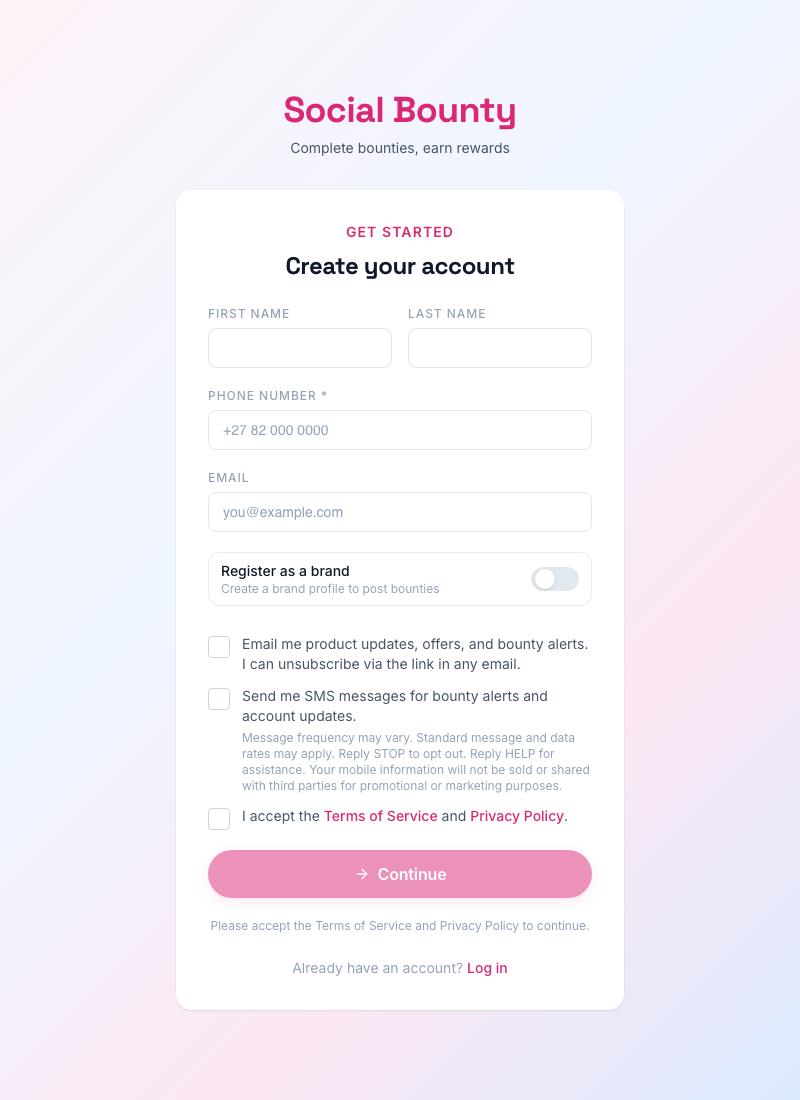
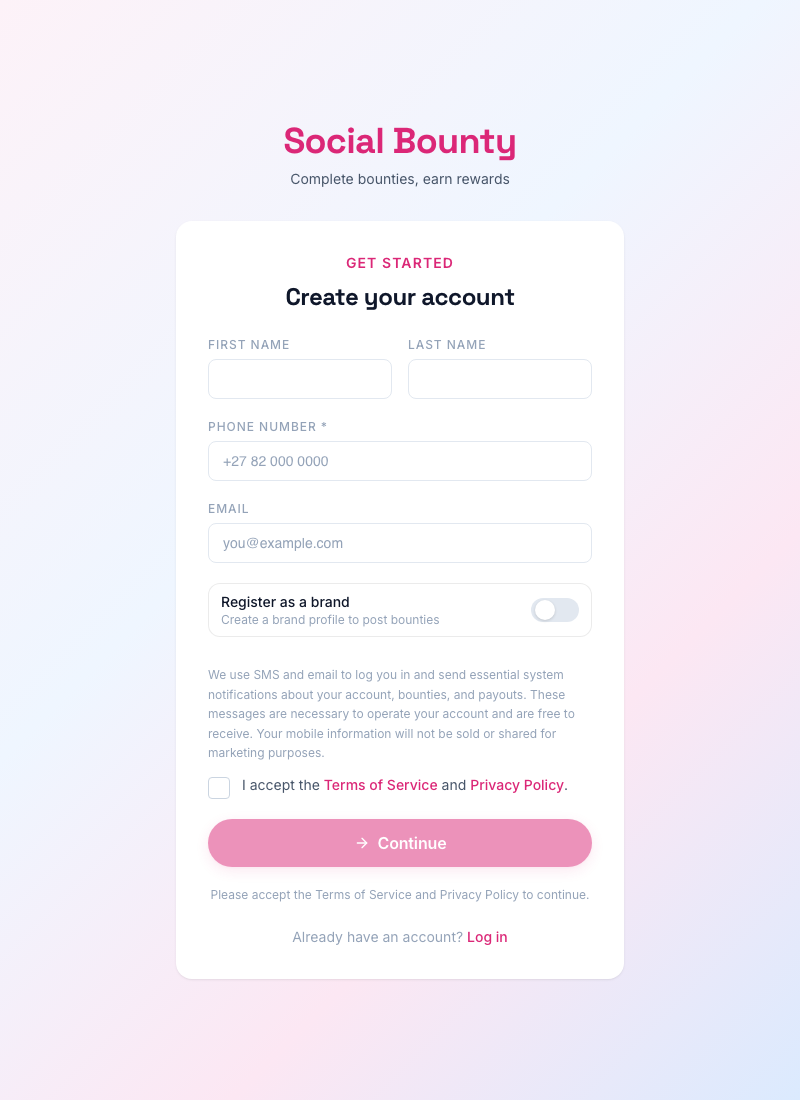
feat(web): replace marketing checkboxes with service-comms notice
The new signup form posture reflects the post-2026-04-25 legal
repositioning: SMS + email are service communications, not direct
marketing, so we no longer collect per-channel opt-in consent.

Signup form (apps/web/src/app/(auth)/signup/page.tsx):
- Drop Email + SMS marketing checkboxes + their consent state.
- Drop MARKETING_CONSENT_LABELS shared import.
- Add a single notice paragraph (data-testid="service-comms-notice"):
  "We use SMS and email to log you in and send essential system
  notifications about your account, bounties, and payouts. These
  messages are necessary to operate your account and are free to
  receive. Your mobile information will not be sold or shared for
  marketing purposes."
- Keep the required ToS+Privacy checkbox as the sole consent surface.
- Continue button stays disabled until ToS is ticked.

Privacy Policy:
- Replace the long "Direct marketing communications (POPIA §69)"
  section with "Service communications". The new section explicitly
  states that SMS + email are service-only (verification codes, payout
  confirmations, dispute notices, individualised bounty alerts), names
  Brevo as the operator, says messages are free to receive on standard
  ZA plans, and promises that any optional marketing in future will be
  collected via a separate POPIA §69 consent surface — service
  messages will not be conditional on accepting marketing.
- Update "Email and SMS provider" subsection to match the service-only
  framing.
[…]

Changed region(s): [[0.25, 0.0927, 0.75, 0.8964]]

diff --git a/apps/web/src/app/(marketing)/legal/privacy-policy/page.tsx b/apps/web/src/app/(marketing)/legal/privacy-policy/page.tsx
@@ -13,7 +13,7 @@ const TOC = [
   { id: 'who-we-are', label: 'Who we are' },
   { id: 'what-we-collect', label: 'What we collect' },
   { id: 'how-we-use', label: 'How we use it' },
-  { id: 'direct-marketing', label: 'Direct marketing (POPIA §69)' },
+  { id: 'service-communications', label: 'Service communications' },
   { id: 'who-we-share-with', label: 'Who we share it with' },
   { id: 'cross-border-transfer', label: 'Cross-border transfer' },
   { id: 'retention', label: 'How long we keep it' },
@@ -310,104 +310,63 @@ export default function PrivacyPolicyPage() {
           >
             Cookie Policy
           </Link>
-          ) and optional marketing communications by email and SMS — see{' '}
-          <a href="#direct-marketing" className="text-pink-600 hover:text-pink-700 font-medium">
-            Direct marketing (POPIA §69)
+          ). We do not currently send optional marketing communications — see{' '}
+          <a
+            href="#service-communications"
+            className="text-pink-600 hover:text-pink-700 font-medium"
+          >
+            Service communications
           </a>{' '}
-          below. You can withdraw consent at any time without affecting the lawfulness of what we
-          did before.
+          below for what we do send. You can withdraw consent at any time without affecting the
+          lawfulness of what we did before.
         </p>
       </section>
 
-      <section id="direct-marketing">
+      <section id="service-communications">
         <h2 className="text-2xl font-heading font-semibold text-slate-900 mb-4">
-          Direct marketing communications (POPIA §69)
+          Service communications
         </h2>
         <p className="mb-4">
-          Direct marketing — sending you commercial messages to promote our service or third-party
-          offers — is governed by section 69 of POPIA. The rule is simple: we may only send direct
-          marketing by electronic communication if you have given specific, voluntary consent or if
-          you are an existing customer receiving messages about similar services. We do not buy
-          marketing lists, we do not pretext, and we do not opt you in by default.
+          We use SMS and email to log you in and send essential system notifications about your
+          account, bounties, and payouts. These messages are necessary to operate your account —
+          examples include verification codes, payout confirmations, dispute notices, submission
+          status updates, and individualised bounty alerts about work you have applied for or
+          submitted. They are not direct marketing under section 69 of POPIA, and we do not
+          collect a separate marketing-consent box for them at signup.
         </p>
-
-        <h3 className="text-lg font-heading font-semibold text-slate-900 mt-6 mb-3">
-          Channels we use
-        </h3>
         <p className="mb-4">
-          At signup you choose which marketing channels we may use. Each is independent — ticking
-          SMS does not enrol you in email, and vice versa. Today we send marketing by:
-        </p>
-        <ul className="list-disc pl-6 mb-4 space-y-2">
-          <li>
-            <strong>Email</strong> — product updates, bounty alerts, and offers.
-          </li>
-          <li>
-            <strong>SMS</strong> — short text alerts to your registered mobile number.
-          </li>
-        </ul>
-        <p className="mb-4">
-          We do not currently send marketing by WhatsApp, instant messaging, or voice call. If we
-          add a new channel, we will ask you again — your existing consents do not roll over to
-          channels you did not opt into.
-        </p>
-
-        <h3 className="text-lg font-heading font-semibold text-slate-900 mt-6 mb-3">
-          Who sends the messages
-        </h3>
-        <p className="mb-4">
-          Our email and SMS are dispatched through{' '}
+          Both rails are dispatched through{' '}
           <strong className="font-semibold text-slate-900">Brevo (Sendinblue SAS)</strong>, a French
-          operator under POPIA sections 20 and 21. Brevo receives the minimum data needed to deliver
-          each message: your name, the email address or mobile number, and the message body. Brevo
-          does not use this data for its own purposes. SMS routed through international toll-free
-          carriers may transit third-party infrastructure to reach your handset.
+          operator under POPIA sections 20 and 21. Brevo receives the minimum data needed to
+          deliver each message: your name, the email address or mobile number, and the message
+          body. Brevo does not use this data for its own purposes.
         </p>
-
-        <h3 className="text-lg font-heading font-semibold text-slate-900 mt-6 mb-3">
-          How to opt out
-        </h3>
-        <ul className="list-disc pl-6 mb-4 space-y-2">
-          <li>
-            <strong>Email</strong> — every marketing email contains an unsubscribe link. Click it
-            and your email-marketing flag is cleared immediately.
-          </li>
-          <li>
-            <strong>SMS</strong> — reply <strong>STOP</strong> to any marketing SMS to be removed,
-            or <strong>HELP</strong> for assistance. Message frequency may vary. Standard message
-            and data rates may apply. Your mobile information will not be sold or shared with third
-            parties for promotional or marketing purposes.
-          </li>
-          <li>
-            <strong>All channels at once</strong> — email{' '}
-            <a
-              href={`mailto:${LEGAL_ENTITY.emails.privacy}`}
-              className="text-pink-600 hover:text-pink-700 font-medium"
-            >
-              {LEGAL_ENTITY.emails.privacy}
-            </a>{' '}
-            and we will withdraw all your marketing consents within seven days. You will continue
-            to receive transactional messages — login codes, payout confirmations, dispute notices
-            — because those are necessary to operate your account and are not direct marketing
-            under section 69.
-          </li>
-        </ul>
-
-        <h3 className="text-lg font-heading font-semibold text-slate-900 mt-6 mb-3">
-          Your record of consent
-        </h3>
         <p className="mb-4">
-          When you tick a marketing checkbox at signup, we record the date, the version of the
-          consent text shown to you, and the IP address from which you ticked it. This is how we
-          prove your consent if you or the Information Regulator ever ask. You can request a copy
-          of your consent record at any time via{' '}
+          <strong className="font-semibold text-slate-900">No charge to receive.</strong> The cost
+          of sending SMS is borne by us; you do not incur a charge for receiving them on a standard
+          South African mobile plan. Roaming or non-standard plans may apply their own rules.
+        </p>
+        <p className="mb-4">
+          <strong className="font-semibold text-slate-900">No marketing without consent.</strong>{' '}
+          We will not use SMS or email to send you optional product offers, third-party
+          promotions, or bulk marketing campaigns unless we first ask for your specific consent
+          under section 69 of POPIA. If we ever introduce that, it will be a separate, voluntary
+          opt-in surface — your service messages will not be conditional on accepting marketing.
+        </p>
+        <p className="mb-4">
+          <strong className="font-semibold text-slate-900">No sale or sharing for marketing.</strong>{' '}
+          Your mobile information will not be sold or shared with third parties for promotional or
+          marketing purposes.
+        </p>
+        <p className="mb-4">
+          If you have any concerns about a message you have received from us, email{' '}
           <a
             href={`mailto:${LEGAL_ENTITY.emails.privacy}`}
             className="text-pink-600 hover:text-pink-700 font-medium"
           >
             {LEGAL_ENTITY.emails.privacy}
           </a>
-          .
+          . You can stop receiving service communications by closing your account.
         </p>
       </section>
 
@@ -457,15 +416,18 @@ export default function PrivacyPolicyPage() {
           Email and SMS provider — Brevo (Sendinblue SAS)
         </h3>
         <p className="mb-4">
-          Brevo (Sendinblue SAS) dispatches both our transactional messages — verification codes,
-          payout confirmations, dispute notifications — and any marketing emails or SMS you have
-          opted into. Brevo receives your name, email address, and (for SMS) mobile number, plus
-          the message body. They act as our operator under POPIA sections 20 and 21 and may not
-          use the data for their own purposes. See{' '}
-          <a href="#direct-marketing" className="text-pink-600 hover:text-pink-700 font-medium">
-            Direct marketing (POPIA §69)
+          Brevo (Sendinblue SAS) dispatches our service communications — verification codes,
+          payout confirmations, dispute notifications, and individualised bounty alerts. Brevo
+          receives your name, email address, and (for SMS) mobile number, plus the message body.
+          They act as our operator under POPIA sections 20 and 21 and may not use the data for
+          their own purposes. See{' '}
+          <a
+            href="#service-communications"
+            className="text-pink-600 hover:text-pink-700 font-medium"
+          >
+            Service communications
           </a>{' '}
-          for the specifics on when each channel is used and how to opt out.
+          for the full description of what these channels are used for.
         </p>
 
         <h3 className="text-lg font-heading font-semibold text-slate-900 mt-6 mb-3">

diff --git a/apps/web/src/app/(auth)/signup/page.tsx b/apps/web/src/app/(auth)/signup/page.tsx
@@ -7,7 +7,6 @@ import { InputSwitch } from 'primereact/inputswitch';
 import { Checkbox } from 'primereact/checkbox';
 import { AlertCircle, ArrowRight, Loader2, Phone, UserPlus } from 'lucide-react';
 import { isValidPhoneNumber } from 'libphonenumber-js';
-import { MARKETING_CONSENT_LABELS } from '@social-bounty/shared';
 import { useAuth } from '@/hooks/useAuth';
 import { authApi } from '@/lib/api/auth';
 import { ApiError } from '@/lib/api/client';
@@ -22,8 +21,6 @@ export default function SignupPage() {
     registerAsBrand: false,
     brandName: '',
     brandContactEmail: '',
-    consentEmail: false,
-    consentSms: false,
     termsAccepted: false,
   });
   const [otp, setOtp] = useState('');
@@ -98,10 +95,6 @@ export default function SignupPage() {
         firstName: form.firstName,
         lastName: form.lastName,
         contactNumber: form.contactNumber.trim(),
-        marketingConsent: {
-          email: form.consentEmail,
-          sms: form.consentSms,
-        },
         termsAccepted: true,
         ...(form.registerAsBrand
           ? {
@@ -301,42 +294,18 @@ export default function SignupPage() {
             </div>
           )}
 
-          {/* Communications opt-in (POPIA §69 + Brevo carrier requirement). */}
+          {/* Service-communications notice + ToS acceptance. */}
           <div className="space-y-3 pt-2">
-            <label
-              htmlFor="consentEmail"
-              className="flex items-start gap-3 cursor-pointer text-sm text-text-secondary normal-case tracking-normal font-normal"
+            <p
+              data-testid="service-comms-notice"
+              className="text-xs text-text-muted leading-relaxed"
             >
-              <Checkbox
-                inputId="consentEmail"
-                checked={form.consentEmail}
-                onChange={(e) =>
-                  setForm((prev) => ({ ...prev, consentEmail: !!e.checked }))
-                }
-                className="mt-0.5 flex-none"
-              />
-              <span>{MARKETING_CONSENT_LABELS.EMAIL.label}</span>
-            </label>
-
-            <label
-              htmlFor="consentSms"
-              className="flex items-start gap-3 cursor-pointer text-sm text-text-secondary normal-case tracking-normal font-normal"
-            >
-              <Checkbox
-                inputId="consentSms"
-                checked={form.consentSms}
-                onChange={(e) =>
-                  setForm((prev) => ({ ...prev, consentSms: !!e.checked }))
-                }
-                className="mt-0.5 flex-none"
-              />
-              <span>
-                {MARKETING_CONSENT_LABELS.SMS.label}
-                <span className="block mt-1 text-xs text-text-muted">
-                  {MARKETING_CONSENT_LABELS.SMS.disclosure}
-                </span>
-              </span>
-            </label>
+              We use SMS and email to log you in and send essential system
+              notifications about your account, bounties, and payouts. These
+              messages are necessary to operate your account and are free to
+              receive. Your mobile information will not be sold or shared for
+              marketing purposes.
+            </p>
 
             <label
               htmlFor="termsAccepted"

diff --git a/apps/web/e2e/auth.spec.ts b/apps/web/e2e/auth.spec.ts
@@ -96,35 +96,26 @@ test.describe('Auth — signup page', () => {
     await expect(page.locator('input[type="email"], #email')).toBeVisible();
   });
 
-  test('renders Email + SMS + Terms checkboxes, all unchecked by default', async ({ page }) => {
+  test('renders ToS checkbox unchecked by default + no marketing checkboxes', async ({ page }) => {
     await page.goto('/signup');
 
-    const emailBox = page.locator('input#consentEmail');
-    const smsBox = page.locator('input#consentSms');
+    // Only one consent checkbox: Terms of Service / Privacy Policy.
     const termsBox = page.locator('input#termsAccepted');
-
-    await expect(emailBox).toBeVisible();
-    await expect(smsBox).toBeVisible();
     await expect(termsBox).toBeVisible();
-
-    expect(await emailBox.isChecked()).toBe(false);
-    expect(await smsBox.isChecked()).toBe(false);
     expect(await termsBox.isChecked()).toBe(false);
+
+    // Marketing-consent boxes from the previous design must not exist.
+    await expect(page.locator('input#consentEmail')).toHaveCount(0);
+    await expect(page.locator('input#consentSms')).toHaveCount(0);
   });
 
-  test('SMS opt-in shows the carrier-mandated disclosure text', async ({ page }) => {
+  test('shows service-communications notice with no-sale-no-share statement', async ({ page }) => {
     await page.goto('/signup');
 
-    // Brevo / toll-free carrier require this exact disclosure to be visible
-    // alongside the SMS opt-in checkbox.
-    await expect(
-      page.getByText(/Reply STOP to opt out/, { exact: false })
-    ).toBeVisible();
-    await expect(
-      page.getByText(/will not be sold or shared with third parties/, {
-        exact: false,
-      })
-    ).toBeVisible();
+    const notice = page.locator('[data-testid="service-comms-notice"]');
+    await expect(notice).toBeVisible();
+    await expect(notice).toContainText(/log you in and send essential system notifications/i);
+    await expect(notice).toContainText(/will not be sold or shared for marketing purposes/i);
   });
 
   test('Continue button stays disabled until ToS box is ticked', async ({ page }) => {

diff --git a/scripts/capture-brevo-evidence.js b/scripts/capture-brevo-evidence.js
@@ -1,6 +1,11 @@
-// One-off: capture the signup form with all three checkboxes unchecked + the
-// SMS carrier disclosure visible. Output is committed to docs/compliance/ as
-// the Brevo opt-in evidence file.
+// One-off: capture the signup form showing the service-communications notice
+// + required ToS checkbox unchecked + disabled Continue button. Output is
+// committed to docs/compliance/ as the Brevo evidence file.
+//
+// SMS + email are positioned as service communications (not direct marketing)
+// per the post-2026-04-25 repositioning, so there are no per-channel opt-in
+// checkboxes — the notice paragraph plus the no-sale-no-share statement
+// satisfy the carrier disclosure expectations for transactional senders.
 //
 // Usage: node scripts/capture-brevo-evidence.js
 // Requires: web-preview server running on http://localhost:3010
@@ -21,9 +26,9 @@ const OUT = path.resolve(
   const browser = await chromium.launch();
   const page = await browser.newPage({ viewport: { width: 800, height: 1100 } });
   await page.goto(URL, { waitUntil: 'networkidle' });
-  // Give the React tree a beat to settle (custom checkboxes hydrate after first paint).
-  await page.waitForSelector('input#consentEmail');
-  await page.waitForSelector('input#consentSms');
+  // Give the React tree a beat to settle (PrimeReact Checkbox hydrates after
+  // first paint; service-comms notice is server-rendered).
+  await page.waitForSelector('[data-testid="service-comms-notice"]');
   await page.waitForSelector('input#termsAccepted');
   await page.screenshot({ path: OUT, fullPage: true });
   console.log(`wrote ${OUT}`);

diff --git a/apps/web/src/app/(marketing)/legal/terms-of-service/page.tsx b/apps/web/src/app/(marketing)/legal/terms-of-service/page.tsx
@@ -75,14 +75,15 @@ export default function TermsOfServicePage() {
           >
             {LEGAL_ENTITY.emails.legal}
           </a>
-          . Marketing communications by email and SMS are governed separately under{' '}
+          . SMS and email are used for service communications only — see{' '}
           <Link
-            href="/legal/privacy-policy#direct-marketing"
+            href="/legal/privacy-policy#service-communications"
             className="text-pink-600 hover:text-pink-700 font-medium"
           >
-            Privacy Policy §Direct marketing (POPIA §69)
-          </Link>
-          .
+            Privacy Policy §Service communications
+          </Link>{' '}
+          for what those channels are used for. We do not send optional marketing
+          communications without first asking for your specific consent.
         </p>
         <p className="mb-4">
           We may amend these Terms from time to time. Material changes — changes that affect your
